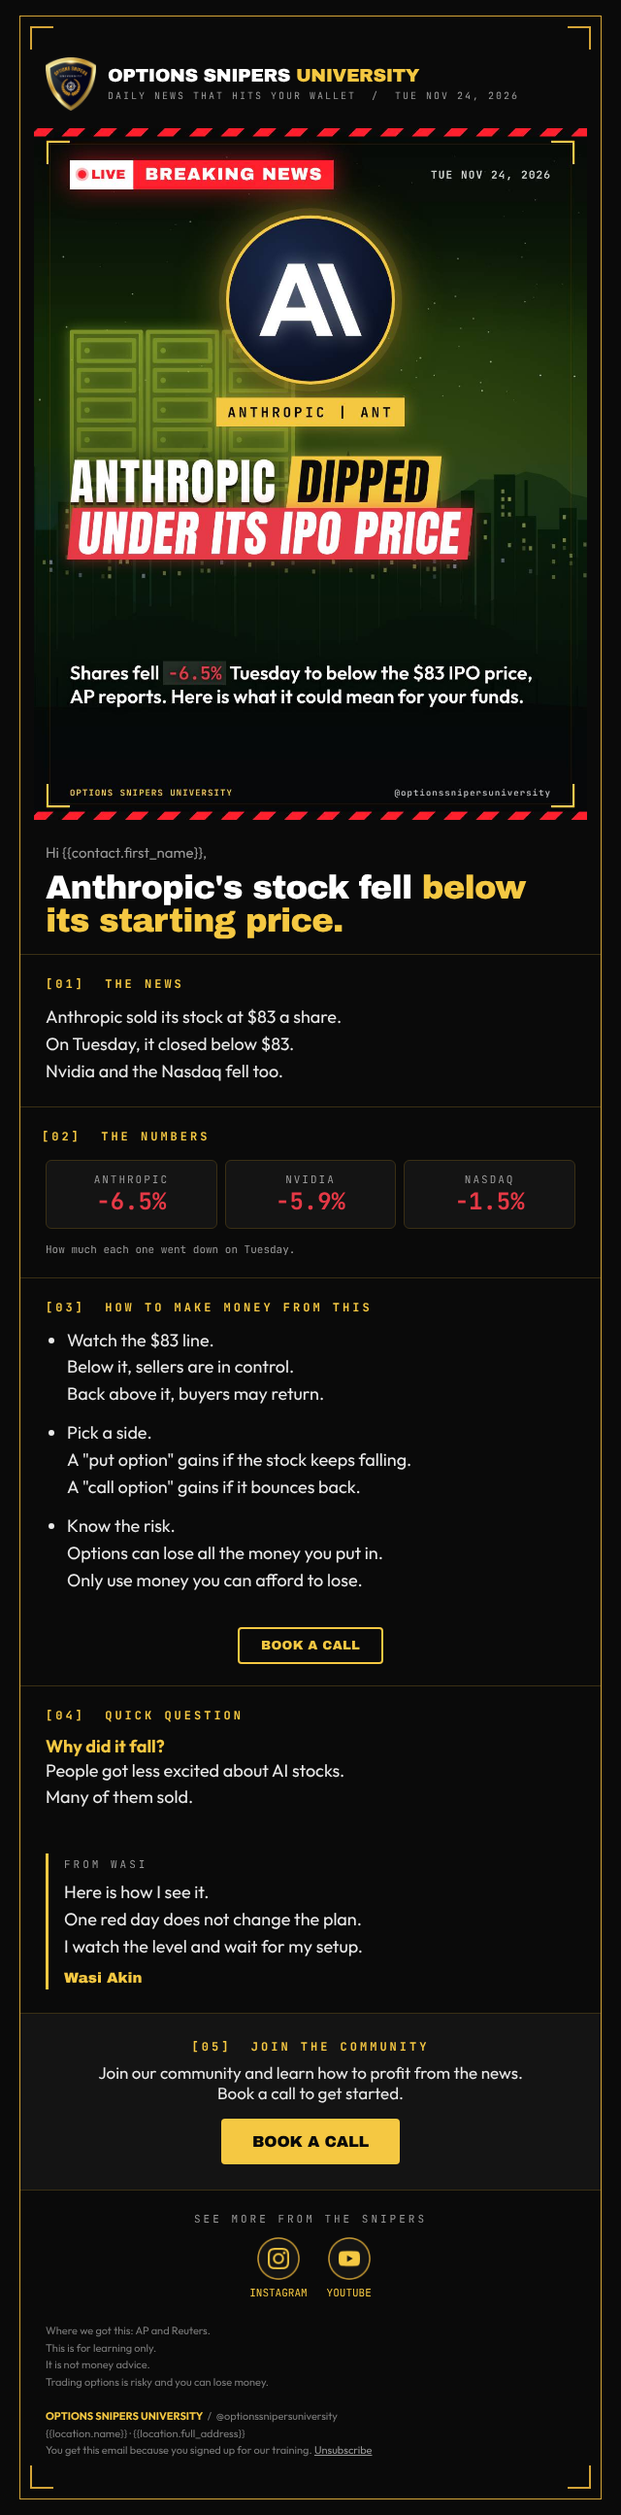
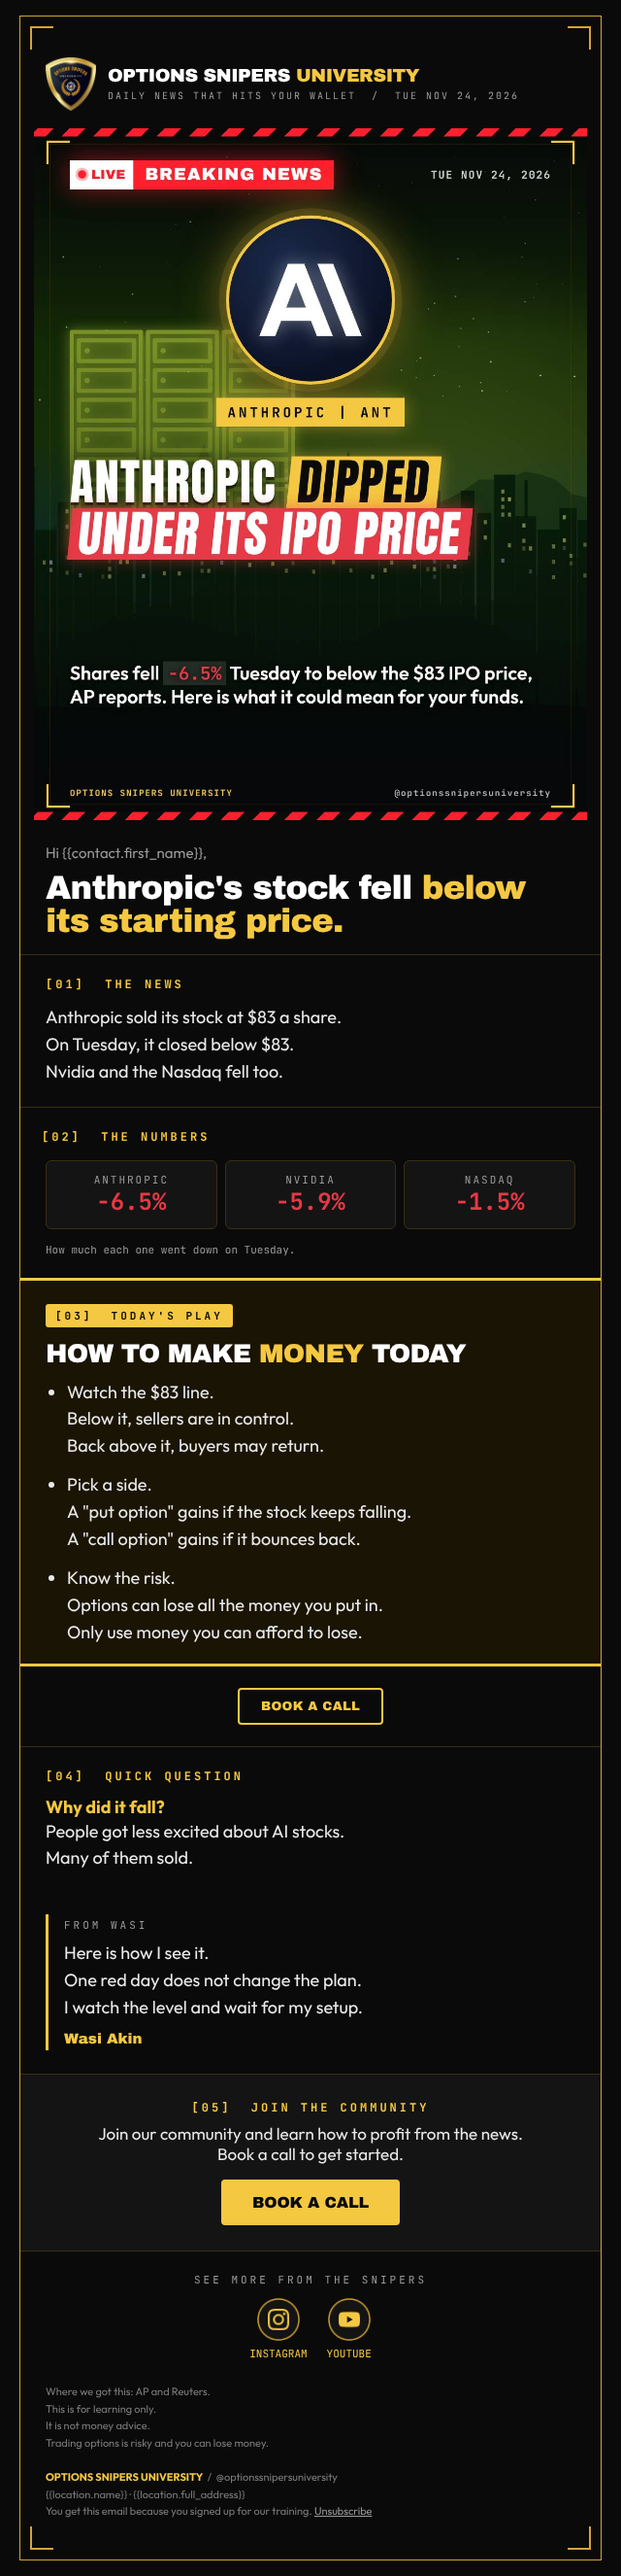
Newsletter: highlight How to make money today section
Claude-Session: https://claude.ai/code/session_012Jnj24W5oP8eoSDNkGANUC

diff --git a/newsletter/sample/preview.html b/newsletter/sample/preview.html
@@ -12,8 +12,8 @@
 <tr><td style="padding:24px 26px 18px;"><div style="font-family:'Outfit',Arial,Helvetica,sans-serif;font-size:15px;color:#9a9a9a;">Hi {{contact.first_name}},</div><h1 style="margin:10px 0 0;font-family:'Archivo Black','Arial Black',Arial,sans-serif;font-weight:normal;letter-spacing:-0.025em;font-size:34px;line-height:0.98;color:#ffffff;">Anthropic's stock fell <span style="color:#F5C842;">below its starting price.</span></h1></td></tr>
 <tr><td style="padding:22px 26px;border-top:1px solid #3a2f14;"><div style="font-family:'JetBrains Mono','Courier New',monospace;font-size:12px;font-weight:bold;letter-spacing:3px;color:#F5C842;margin-bottom:12px;">[01] &nbsp;THE NEWS</div><p style="font-family:'Outfit',Arial,Helvetica,sans-serif;font-size:18px;line-height:1.55;color:#E9E9E9;margin:0;">Anthropic sold its stock at $83 a share.<br>On Tuesday, it closed below $83.<br>Nvidia and the Nasdaq fell too.</p></td></tr>
 <tr><td style="padding:22px 22px;border-top:1px solid #3a2f14;"><div style="font-family:'JetBrains Mono','Courier New',monospace;font-size:12px;font-weight:bold;letter-spacing:3px;color:#F5C842;margin-bottom:12px;">[02] &nbsp;THE NUMBERS</div><table role="presentation" width="100%" cellpadding="0" cellspacing="0"><tr><td width="33%" style="padding:4px;"><div style="background:#141414;border:1px solid #3a2f14;border-radius:6px;padding:12px 6px;text-align:center;"><div style="font-family:'JetBrains Mono','Courier New',monospace;font-size:11px;letter-spacing:2px;color:#9a9a9a;">ANTHROPIC</div><div style="font-family:'JetBrains Mono','Courier New',monospace;font-size:24px;font-weight:bold;color:#E63946;">-6.5%</div></div></td><td width="33%" style="padding:4px;"><div style="background:#141414;border:1px solid #3a2f14;border-radius:6px;padding:12px 6px;text-align:center;"><div style="font-family:'JetBrains Mono','Courier New',monospace;font-size:11px;letter-spacing:2px;color:#9a9a9a;">NVIDIA</div><div style="font-family:'JetBrains Mono','Courier New',monospace;font-size:24px;font-weight:bold;color:#E63946;">-5.9%</div></div></td><td width="33%" style="padding:4px;"><div style="background:#141414;border:1px solid #3a2f14;border-radius:6px;padding:12px 6px;text-align:center;"><div style="font-family:'JetBrains Mono','Courier New',monospace;font-size:11px;letter-spacing:2px;color:#9a9a9a;">NASDAQ</div><div style="font-family:'JetBrains Mono','Courier New',monospace;font-size:24px;font-weight:bold;color:#E63946;">-1.5%</div></div></td></tr></table><p style="font-family:'JetBrains Mono','Courier New',monospace;font-size:11px;color:#9a9a9a;margin:10px 4px 0;">How much each one went down on Tuesday.</p></td></tr>
-<tr><td style="padding:22px 26px;border-top:1px solid #3a2f14;"><div style="font-family:'JetBrains Mono','Courier New',monospace;font-size:12px;font-weight:bold;letter-spacing:3px;color:#F5C842;margin-bottom:12px;">[03] &nbsp;HOW TO MAKE MONEY FROM THIS</div><ul style="font-family:'Outfit',Arial,Helvetica,sans-serif;font-size:18px;line-height:1.55;color:#E9E9E9;margin:0;padding-left:22px;"><li style="margin-bottom:12px;">Watch the $83 line.<br>Below it, sellers are in control.<br>Back above it, buyers may return.</li><li style="margin-bottom:12px;">Pick a side.<br>A "put option" gains if the stock keeps falling.<br>A "call option" gains if it bounces back.</li><li style="margin-bottom:12px;">Know the risk.<br>Options can lose all the money you put in.<br>Only use money you can afford to lose.</li></ul></td></tr>
-<tr><td align="center" style="padding:0 26px 22px;"><a href="https://example.com/book" style="display:inline-block;border:2px solid #F5C842;color:#F5C842;font-family:'Archivo Black','Arial Black',Arial,sans-serif;font-size:13px;letter-spacing:0.02em;text-decoration:none;padding:10px 22px;border-radius:4px;">BOOK A CALL</a></td></tr>
+<tr><td style="padding:0;border-top:3px solid #F5C842;border-bottom:3px solid #F5C842;background:#1a1405;"><table role="presentation" width="100%" cellpadding="0" cellspacing="0"><tr><td style="padding:24px 26px 6px;"><span style="display:inline-block;background:#F5C842;color:#0A0A0A;font-family:'JetBrains Mono','Courier New',monospace;font-size:11px;font-weight:bold;letter-spacing:3px;padding:5px 10px;border-radius:3px;">[03] &nbsp;TODAY'S PLAY</span><div style="font-family:'Archivo Black','Arial Black',Arial,sans-serif;font-size:27px;letter-spacing:-0.025em;line-height:1;color:#ffffff;margin:14px 0 12px;">HOW TO MAKE <span style="color:#F5C842;">MONEY</span> TODAY</div><ul style="font-family:'Outfit',Arial,Helvetica,sans-serif;font-size:18px;line-height:1.55;color:#E9E9E9;margin:0;padding-left:22px;margin:0;"><li style="margin-bottom:12px;">Watch the $83 line.<br>Below it, sellers are in control.<br>Back above it, buyers may return.</li><li style="margin-bottom:12px;">Pick a side.<br>A "put option" gains if the stock keeps falling.<br>A "call option" gains if it bounces back.</li><li style="margin-bottom:12px;">Know the risk.<br>Options can lose all the money you put in.<br>Only use money you can afford to lose.</li></ul></td></tr></table></td></tr>
+<tr><td align="center" style="padding:22px 26px 22px;"><a href="https://example.com/book" style="display:inline-block;border:2px solid #F5C842;color:#F5C842;font-family:'Archivo Black','Arial Black',Arial,sans-serif;font-size:13px;letter-spacing:0.02em;text-decoration:none;padding:10px 22px;border-radius:4px;">BOOK A CALL</a></td></tr>
 <tr><td style="padding:22px 26px;border-top:1px solid #3a2f14;"><div style="font-family:'JetBrains Mono','Courier New',monospace;font-size:12px;font-weight:bold;letter-spacing:3px;color:#F5C842;margin-bottom:12px;">[04] &nbsp;QUICK QUESTION</div><div style="margin-bottom:16px;"><div style="font-family:'Outfit',Arial,Helvetica,sans-serif;font-size:18px;font-weight:bold;color:#F5C842;">Why did it fall?</div><div style="font-family:'Outfit',Arial,Helvetica,sans-serif;font-size:18px;line-height:1.55;color:#E9E9E9;margin:0;">People got less excited about AI stocks.<br>Many of them sold.</div></div></td></tr>
 <tr><td style="padding:6px 26px 24px;"><table role="presentation" width="100%" cellpadding="0" cellspacing="0"><tr><td style="border-left:3px solid #F5C842;padding:4px 0 4px 16px;"><div style="font-family:'JetBrains Mono','Courier New',monospace;font-size:11px;letter-spacing:3px;color:#9a9a9a;margin-bottom:8px;">FROM WASI</div><div style="font-family:'Outfit',Arial,Helvetica,sans-serif;font-size:18px;line-height:1.55;color:#E9E9E9;margin:0;">Here is how I see it.<br>One red day does not change the plan.<br>I watch the level and wait for my setup.</div><div style="font-family:'Archivo Black','Arial Black',Arial,sans-serif;font-size:15px;color:#F5C842;margin-top:10px;">Wasi Akin</div></td></tr></table></td></tr>
 <tr><td align="center" style="padding:26px;border-top:1px solid #3a2f14;background:#141414;"><div style="font-family:'JetBrains Mono','Courier New',monospace;font-size:12px;font-weight:bold;letter-spacing:3px;color:#F5C842;margin-bottom:8px;">[05] &nbsp;JOIN THE COMMUNITY</div><div style="font-family:'Outfit',Arial,Helvetica,sans-serif;font-size:17px;color:#E9E9E9;margin-bottom:16px;">Join our community and learn how to profit from the news.<br>Book a call to get started.</div><a href="https://example.com/book" style="display:inline-block;background:#F5C842;color:#0A0A0A;font-family:'Archivo Black','Arial Black',Arial,sans-serif;font-size:16px;letter-spacing:-0.01em;text-decoration:none;padding:15px 32px;border-radius:4px;">BOOK A CALL</a></td></tr>

diff --git a/newsletter/email-template.html b/newsletter/email-template.html
@@ -12,8 +12,8 @@
 <tr><td style="padding:24px 26px 18px;"><div style="font-family:'Outfit',Arial,Helvetica,sans-serif;font-size:15px;color:#9a9a9a;">Hi {{contact.first_name}},</div><h1 style="margin:10px 0 0;font-family:'Archivo Black','Arial Black',Arial,sans-serif;font-weight:normal;letter-spacing:-0.025em;font-size:34px;line-height:0.98;color:#ffffff;">[[HEADLINE: short and plain. Wrap the key words in a gold span.]]</h1></td></tr>
 <tr><td style="padding:22px 26px;border-top:1px solid #3a2f14;"><div style="font-family:'JetBrains Mono','Courier New',monospace;font-size:12px;font-weight:bold;letter-spacing:3px;color:#F5C842;margin-bottom:12px;">[01] &nbsp;THE NEWS</div><p style="font-family:'Outfit',Arial,Helvetica,sans-serif;font-size:18px;line-height:1.55;color:#E9E9E9;margin:0;">[[THE NEWS: 3 short sentences.<br>Who, what, when.<br>Each sentence goes on its own line.]]</p></td></tr>
 <tr><td style="padding:22px 22px;border-top:1px solid #3a2f14;"><div style="font-family:'JetBrains Mono','Courier New',monospace;font-size:12px;font-weight:bold;letter-spacing:3px;color:#F5C842;margin-bottom:12px;">[02] &nbsp;THE NUMBERS</div><table role="presentation" width="100%" cellpadding="0" cellspacing="0"><tr><td width="33%" style="padding:4px;"><div style="background:#141414;border:1px solid #3a2f14;border-radius:6px;padding:12px 6px;text-align:center;"><div style="font-family:'JetBrains Mono','Courier New',monospace;font-size:11px;letter-spacing:2px;color:#9a9a9a;">[[T1_NAME]]</div><div style="font-family:'JetBrains Mono','Courier New',monospace;font-size:24px;font-weight:bold;color:#E63946;">[[T1_MOVE]]</div></div></td><td width="33%" style="padding:4px;"><div style="background:#141414;border:1px solid #3a2f14;border-radius:6px;padding:12px 6px;text-align:center;"><div style="font-family:'JetBrains Mono','Courier New',monospace;font-size:11px;letter-spacing:2px;color:#9a9a9a;">[[T2_NAME]]</div><div style="font-family:'JetBrains Mono','Courier New',monospace;font-size:24px;font-weight:bold;color:#E63946;">[[T2_MOVE]]</div></div></td><td width="33%" style="padding:4px;"><div style="background:#141414;border:1px solid #3a2f14;border-radius:6px;padding:12px 6px;text-align:center;"><div style="font-family:'JetBrains Mono','Courier New',monospace;font-size:11px;letter-spacing:2px;color:#9a9a9a;">[[T3_NAME]]</div><div style="font-family:'JetBrains Mono','Courier New',monospace;font-size:24px;font-weight:bold;color:#E63946;">[[T3_MOVE]]</div></div></td></tr></table><p style="font-family:'JetBrains Mono','Courier New',monospace;font-size:11px;color:#9a9a9a;margin:10px 4px 0;">[[NUMBERS NOTE]]  Green #06D6A0 = up. Red #E63946 = down.</p></td></tr>
-<tr><td style="padding:22px 26px;border-top:1px solid #3a2f14;"><div style="font-family:'JetBrains Mono','Courier New',monospace;font-size:12px;font-weight:bold;letter-spacing:3px;color:#F5C842;margin-bottom:12px;">[03] &nbsp;HOW TO MAKE MONEY FROM THIS</div><ul style="font-family:'Outfit',Arial,Helvetica,sans-serif;font-size:18px;line-height:1.55;color:#E9E9E9;margin:0;padding-left:22px;"><li style="margin-bottom:12px;">[[MONEY_IDEA_1: the exact level or event to watch today, with a number]]</li><li style="margin-bottom:12px;">[[MONEY_IDEA_2: how a trader plays it, plain words]]</li><li style="margin-bottom:12px;">[[MONEY_IDEA_3: the risk to know]]</li></ul></td></tr>
-<tr><td align="center" style="padding:0 26px 22px;"><a href="[[BOOKING_LINK]]" style="display:inline-block;border:2px solid #F5C842;color:#F5C842;font-family:'Archivo Black','Arial Black',Arial,sans-serif;font-size:13px;letter-spacing:0.02em;text-decoration:none;padding:10px 22px;border-radius:4px;">BOOK A CALL</a></td></tr>
+<tr><td style="padding:0;border-top:3px solid #F5C842;border-bottom:3px solid #F5C842;background:#1a1405;"><table role="presentation" width="100%" cellpadding="0" cellspacing="0"><tr><td style="padding:24px 26px 6px;"><span style="display:inline-block;background:#F5C842;color:#0A0A0A;font-family:'JetBrains Mono','Courier New',monospace;font-size:11px;font-weight:bold;letter-spacing:3px;padding:5px 10px;border-radius:3px;">[03] &nbsp;TODAY'S PLAY</span><div style="font-family:'Archivo Black','Arial Black',Arial,sans-serif;font-size:27px;letter-spacing:-0.025em;line-height:1;color:#ffffff;margin:14px 0 12px;">HOW TO MAKE <span style="color:#F5C842;">MONEY</span> TODAY</div><ul style="font-family:'Outfit',Arial,Helvetica,sans-serif;font-size:18px;line-height:1.55;color:#E9E9E9;margin:0;padding-left:22px;margin:0;"><li style="margin-bottom:12px;">[[MONEY_IDEA_1: the exact level or event to watch today, with a number]]</li><li style="margin-bottom:12px;">[[MONEY_IDEA_2: how a trader plays it, plain words]]</li><li style="margin-bottom:12px;">[[MONEY_IDEA_3: the risk to know]]</li></ul></td></tr></table></td></tr>
+<tr><td align="center" style="padding:22px 26px 22px;"><a href="[[BOOKING_LINK]]" style="display:inline-block;border:2px solid #F5C842;color:#F5C842;font-family:'Archivo Black','Arial Black',Arial,sans-serif;font-size:13px;letter-spacing:0.02em;text-decoration:none;padding:10px 22px;border-radius:4px;">BOOK A CALL</a></td></tr>
 <tr><td style="padding:22px 26px;border-top:1px solid #3a2f14;"><div style="font-family:'JetBrains Mono','Courier New',monospace;font-size:12px;font-weight:bold;letter-spacing:3px;color:#F5C842;margin-bottom:12px;">[04] &nbsp;QUICK QUESTION</div><div style="margin-bottom:16px;"><div style="font-family:'Outfit',Arial,Helvetica,sans-serif;font-size:18px;font-weight:bold;color:#F5C842;">[[Q1]]</div><div style="font-family:'Outfit',Arial,Helvetica,sans-serif;font-size:18px;line-height:1.55;color:#E9E9E9;margin:0;">[[A1: 1-2 short sentences]]</div></div></td></tr>
 <tr><td style="padding:6px 26px 24px;"><table role="presentation" width="100%" cellpadding="0" cellspacing="0"><tr><td style="border-left:3px solid #F5C842;padding:4px 0 4px 16px;"><div style="font-family:'JetBrains Mono','Courier New',monospace;font-size:11px;letter-spacing:3px;color:#9a9a9a;margin-bottom:8px;">FROM WASI</div><div style="font-family:'Outfit',Arial,Helvetica,sans-serif;font-size:18px;line-height:1.55;color:#E9E9E9;margin:0;">[[WASI NOTE: 2-3 short sentences in Wasi's voice.<br>Each sentence on its own line.]]</div><div style="font-family:'Archivo Black','Arial Black',Arial,sans-serif;font-size:15px;color:#F5C842;margin-top:10px;">Wasi Akin</div></td></tr></table></td></tr>
 <tr><td align="center" style="padding:26px;border-top:1px solid #3a2f14;background:#141414;"><div style="font-family:'JetBrains Mono','Courier New',monospace;font-size:12px;font-weight:bold;letter-spacing:3px;color:#F5C842;margin-bottom:8px;">[05] &nbsp;JOIN THE COMMUNITY</div><div style="font-family:'Outfit',Arial,Helvetica,sans-serif;font-size:17px;color:#E9E9E9;margin-bottom:16px;">Join our community and learn how to profit from the news.<br>Book a call to get started.</div><a href="[[BOOKING_LINK]]" style="display:inline-block;background:#F5C842;color:#0A0A0A;font-family:'Archivo Black','Arial Black',Arial,sans-serif;font-size:16px;letter-spacing:-0.01em;text-decoration:none;padding:15px 32px;border-radius:4px;">BOOK A CALL</a></td></tr>

diff --git a/newsletter/build.py b/newsletter/build.py
@@ -20,8 +20,8 @@ def page(v,logo,cover,fonts='',ICON=''):
     r.append(sec('01','THE NEWS',f'<p style="{p}">{nl(v["NEWS"])}</p>'))
     r.append(sec('02','THE NUMBERS',f'<table role="presentation" width="100%" cellpadding="0" cellspacing="0"><tr>{chip(*v["T1"])}{chip(*v["T2"])}{chip(*v["T3"])}</tr></table><p style="{M}font-size:11px;color:{MUTED};margin:10px 4px 0;">{v["NUMNOTE"]}</p>',pad='22px 22px'))
     li=''.join(f'<li style="margin-bottom:12px;">{nl(b)}</li>' for b in v['BUL'])
-    r.append(sec('03','HOW TO MAKE MONEY FROM THIS',f'<ul style="{p}padding-left:22px;">{li}</ul>'))
-    r.append(f'''<tr><td align="center" style="padding:0 26px 22px;"><a href="{v['CTAURL']}" style="display:inline-block;border:2px solid {GOLD};color:{GOLD};{H}font-size:13px;letter-spacing:0.02em;text-decoration:none;padding:10px 22px;border-radius:4px;">{v['MIDBTN']}</a></td></tr>''')
+    r.append(f'''<tr><td style="padding:0;border-top:3px solid {GOLD};border-bottom:3px solid {GOLD};background:#1a1405;"><table role="presentation" width="100%" cellpadding="0" cellspacing="0"><tr><td style="padding:24px 26px 6px;"><span style="display:inline-block;background:{GOLD};color:#0A0A0A;{M}font-size:11px;font-weight:bold;letter-spacing:3px;padding:5px 10px;border-radius:3px;">[03] &nbsp;TODAY'S PLAY</span><div style="{H}font-size:27px;letter-spacing:-0.025em;line-height:1;color:#ffffff;margin:14px 0 12px;">HOW TO MAKE <span style="color:{GOLD};">MONEY</span> TODAY</div><ul style="{p}padding-left:22px;margin:0;">{li}</ul></td></tr></table></td></tr>''')
+    r.append(f'''<tr><td align="center" style="padding:22px 26px 22px;"><a href="{v['CTAURL']}" style="display:inline-block;border:2px solid {GOLD};color:{GOLD};{H}font-size:13px;letter-spacing:0.02em;text-decoration:none;padding:10px 22px;border-radius:4px;">{v['MIDBTN']}</a></td></tr>''')
     qa=''.join(f'<div style="margin-bottom:16px;"><div style="{B}font-size:18px;font-weight:bold;color:{GOLD};">{q}</div><div style="{p}">{nl(a)}</div></div>' for q,a in v['QA'])
     r.append(sec('04','QUICK QUESTION',qa))
     r.append(f'''<tr><td style="padding:6px 26px 24px;"><table role="presentation" width="100%" cellpadding="0" cellspacing="0"><tr><td style="border-left:3px solid {GOLD};padding:4px 0 4px 16px;"><div style="{M}font-size:11px;letter-spacing:3px;color:{MUTED};margin-bottom:8px;">FROM WASI</div><div style="{p}">{nl(v['NOTE'])}</div><div style="{H}font-size:15px;color:{GOLD};margin-top:10px;">Wasi Akin</div></td></tr></table></td></tr>''')
